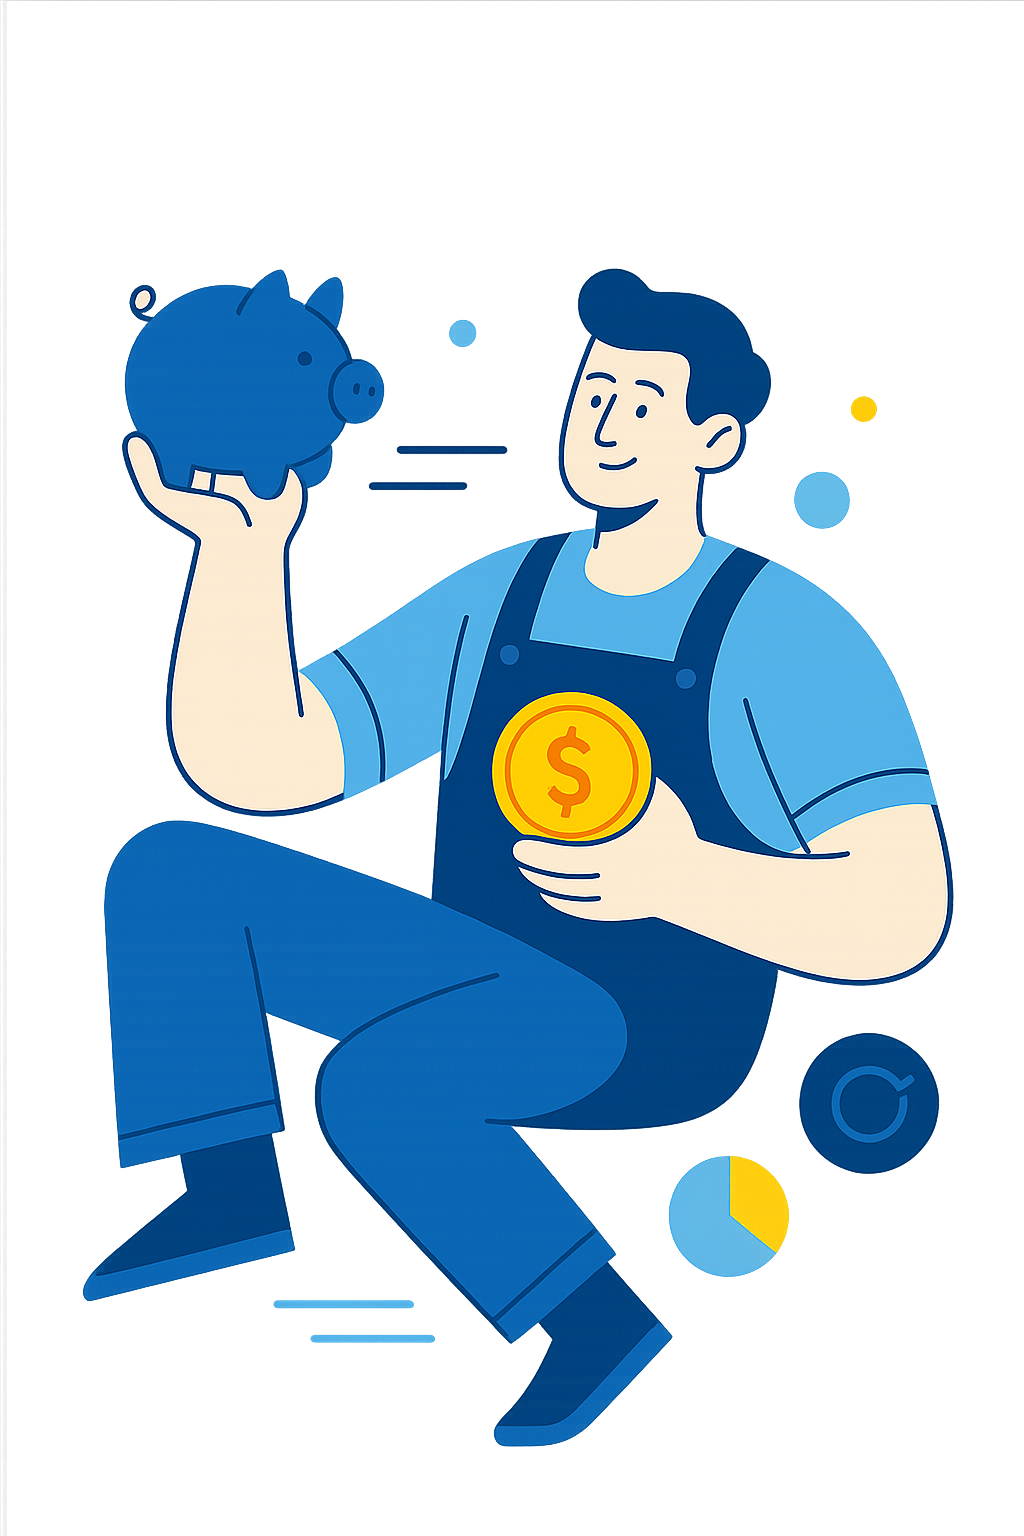
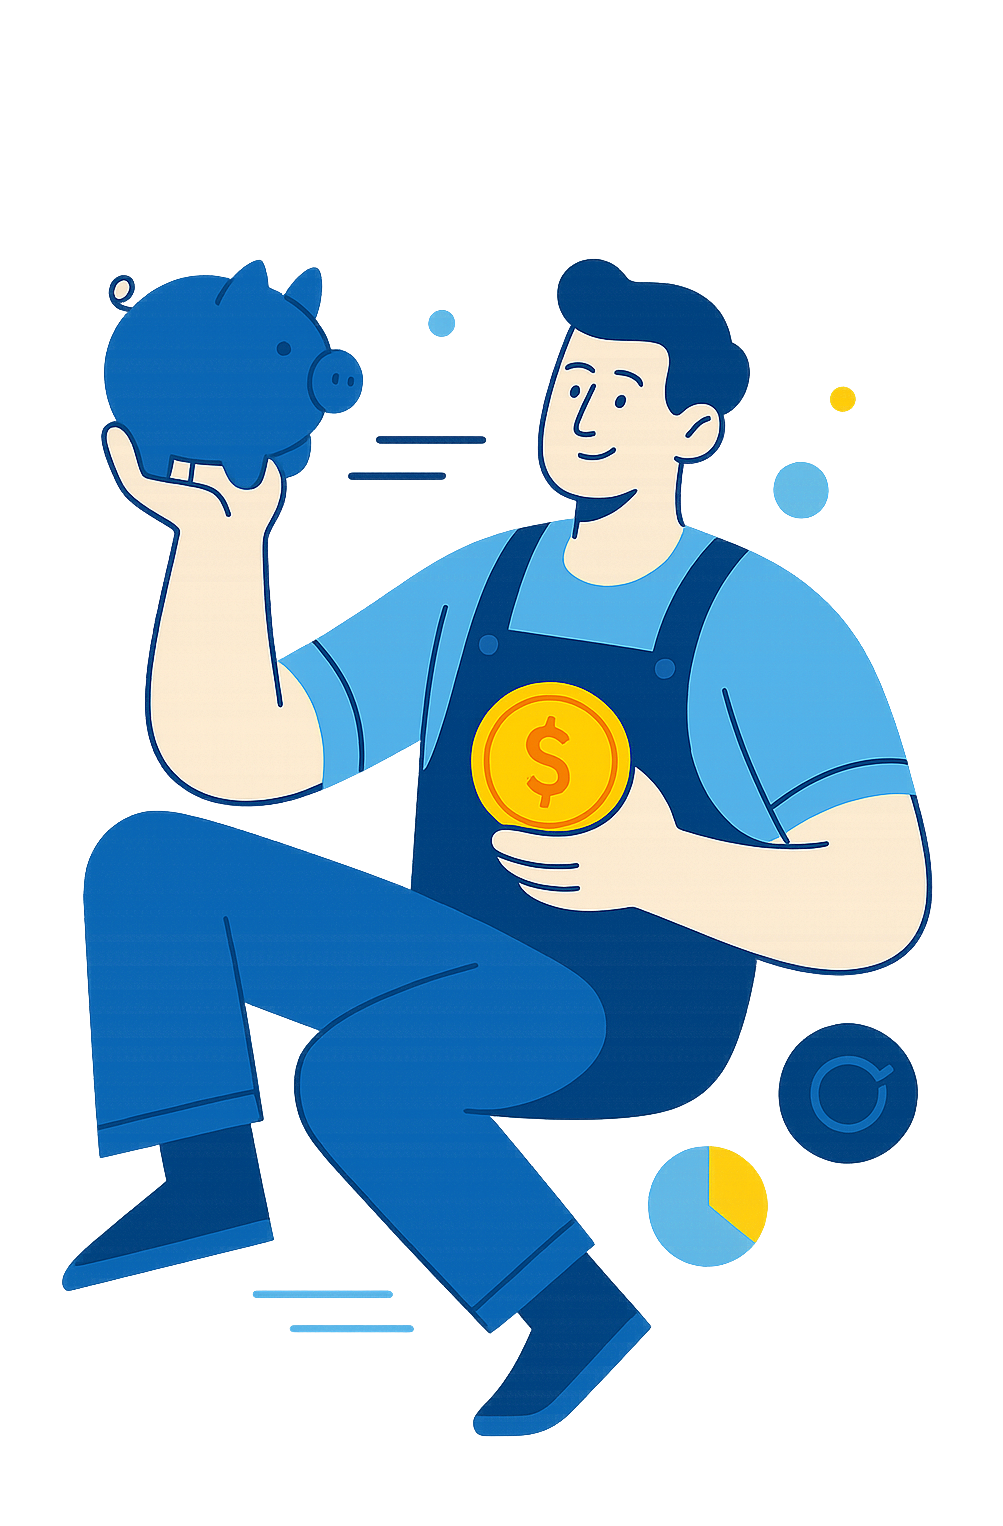
Criando o layout da pagina inical

diff --git a/src/Screens/MetasScreen/MetasScreen.jsx b/src/Screens/MetasScreen/MetasScreen.jsx
@@ -1,13 +1,29 @@
-import { View } from 'react-native'
+import { View, Text } from 'react-native'
 import { styles } from './MetasScreenStyle'
-import { StatusBar } from 'react-native'
+import { StatusBar, Image } from 'react-native'
 import React from 'react'
 
 export const MetasScreen = () => {
   return (
     <View style={styles.container}>
-      <View style={styles.boxImage}></View>
-      <StatusBar barStyle={'dark-content'}/>
+      <View style={styles.boxImage}>
+        <Image
+          source={require('../../../assets/imgs/imagem-inicialPNG03.png')}
+          style={styles.image}
+          resizeMode="contain"
+        />
+      </View>
+      <View style={styles.boxInfor}>
+        <View>
+          <Text style={styles.title}>Um futuro Mais seguro para você</Text>
+        </View>
+        <Text style={styles.subTitle}>Tendo previsibilidade financeira você garante uma vida muito mais tranquila e segura.</Text>
+
+        <View style={styles.boxButtom}>
+
+        </View>
+      </View>
+      <StatusBar barStyle="dark-content" />
     </View>
   )
 }

diff --git a/src/Screens/MetasScreen/MetasScreenStyle.js b/src/Screens/MetasScreen/MetasScreenStyle.js
@@ -4,12 +4,18 @@ import { StyleSheet } from "react-native";
 export const styles = StyleSheet.create({
     container: {
         flex: 1,
-        backgroundColor: ColorGlobal.FundoBody,
+        backgroundColor: ColorGlobal.FundoCards,
     },
     boxImage: {
-        backgroundColor: ColorGlobal.FundoCards,
-        height: "40%",
+        backgroundColor: ColorGlobal.FundoBody,
+        height: "60%",
         borderBottomEndRadius: 70,
-        borderBottomLeftRadius: 70
+        borderBottomLeftRadius: 70,
+        justifyContent: 'center',
+        alignItems: 'center'
+    },
+    image: {
+        
+        height: '100%'
     }
 })
